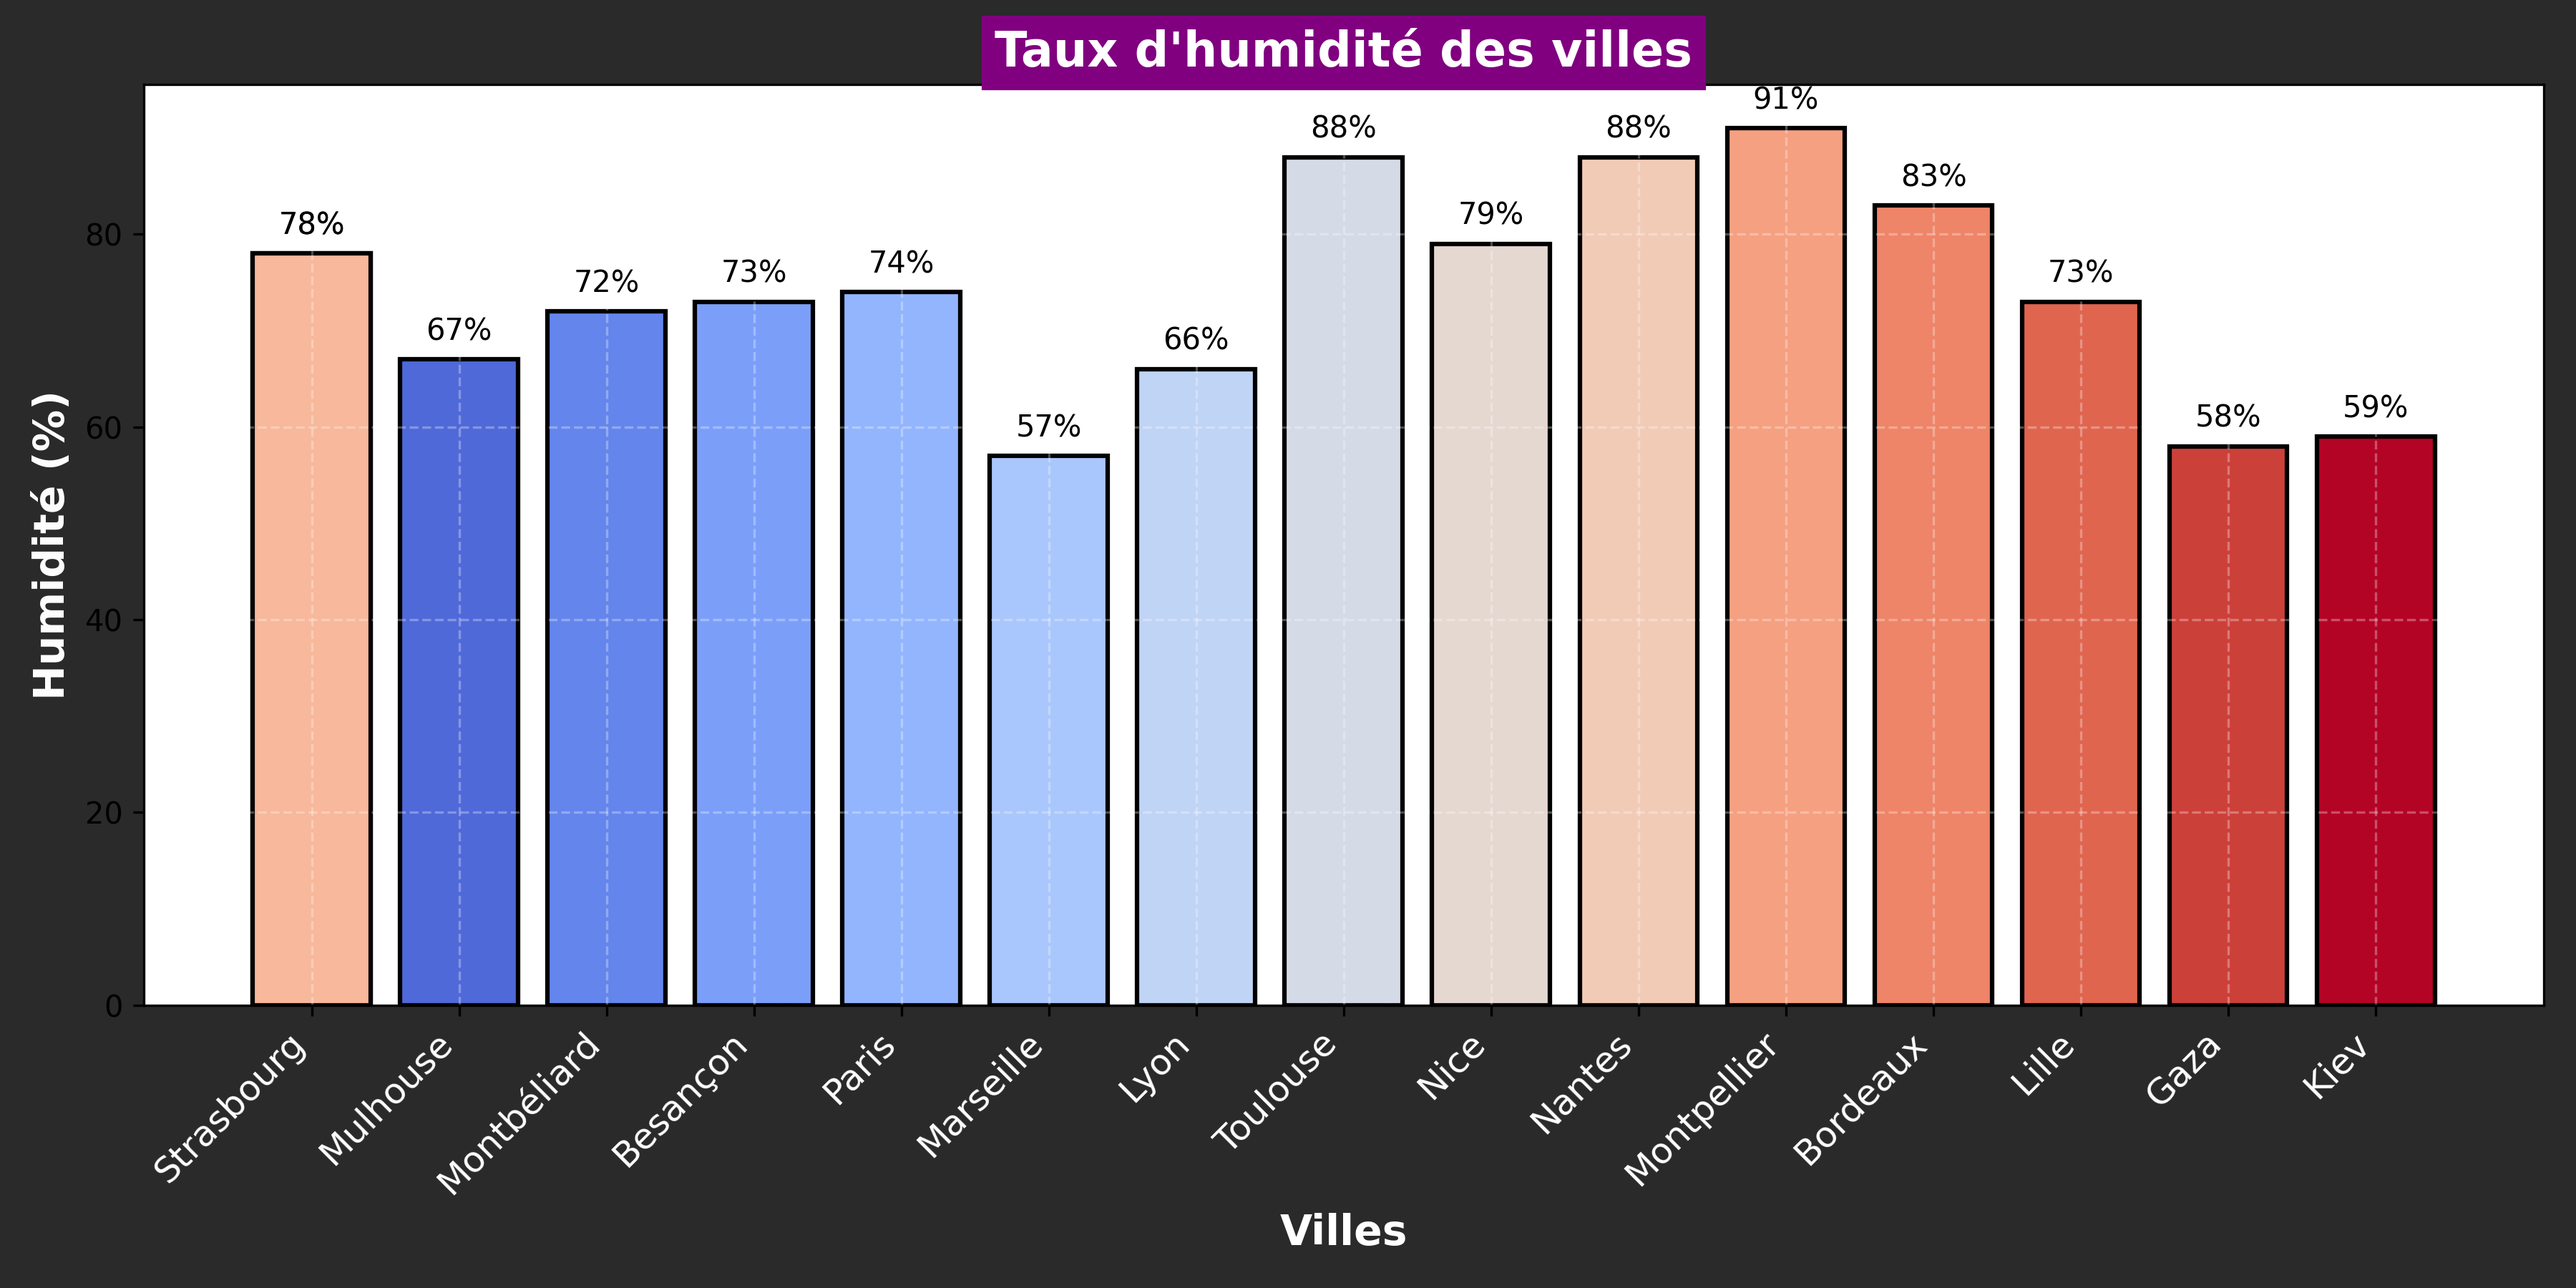
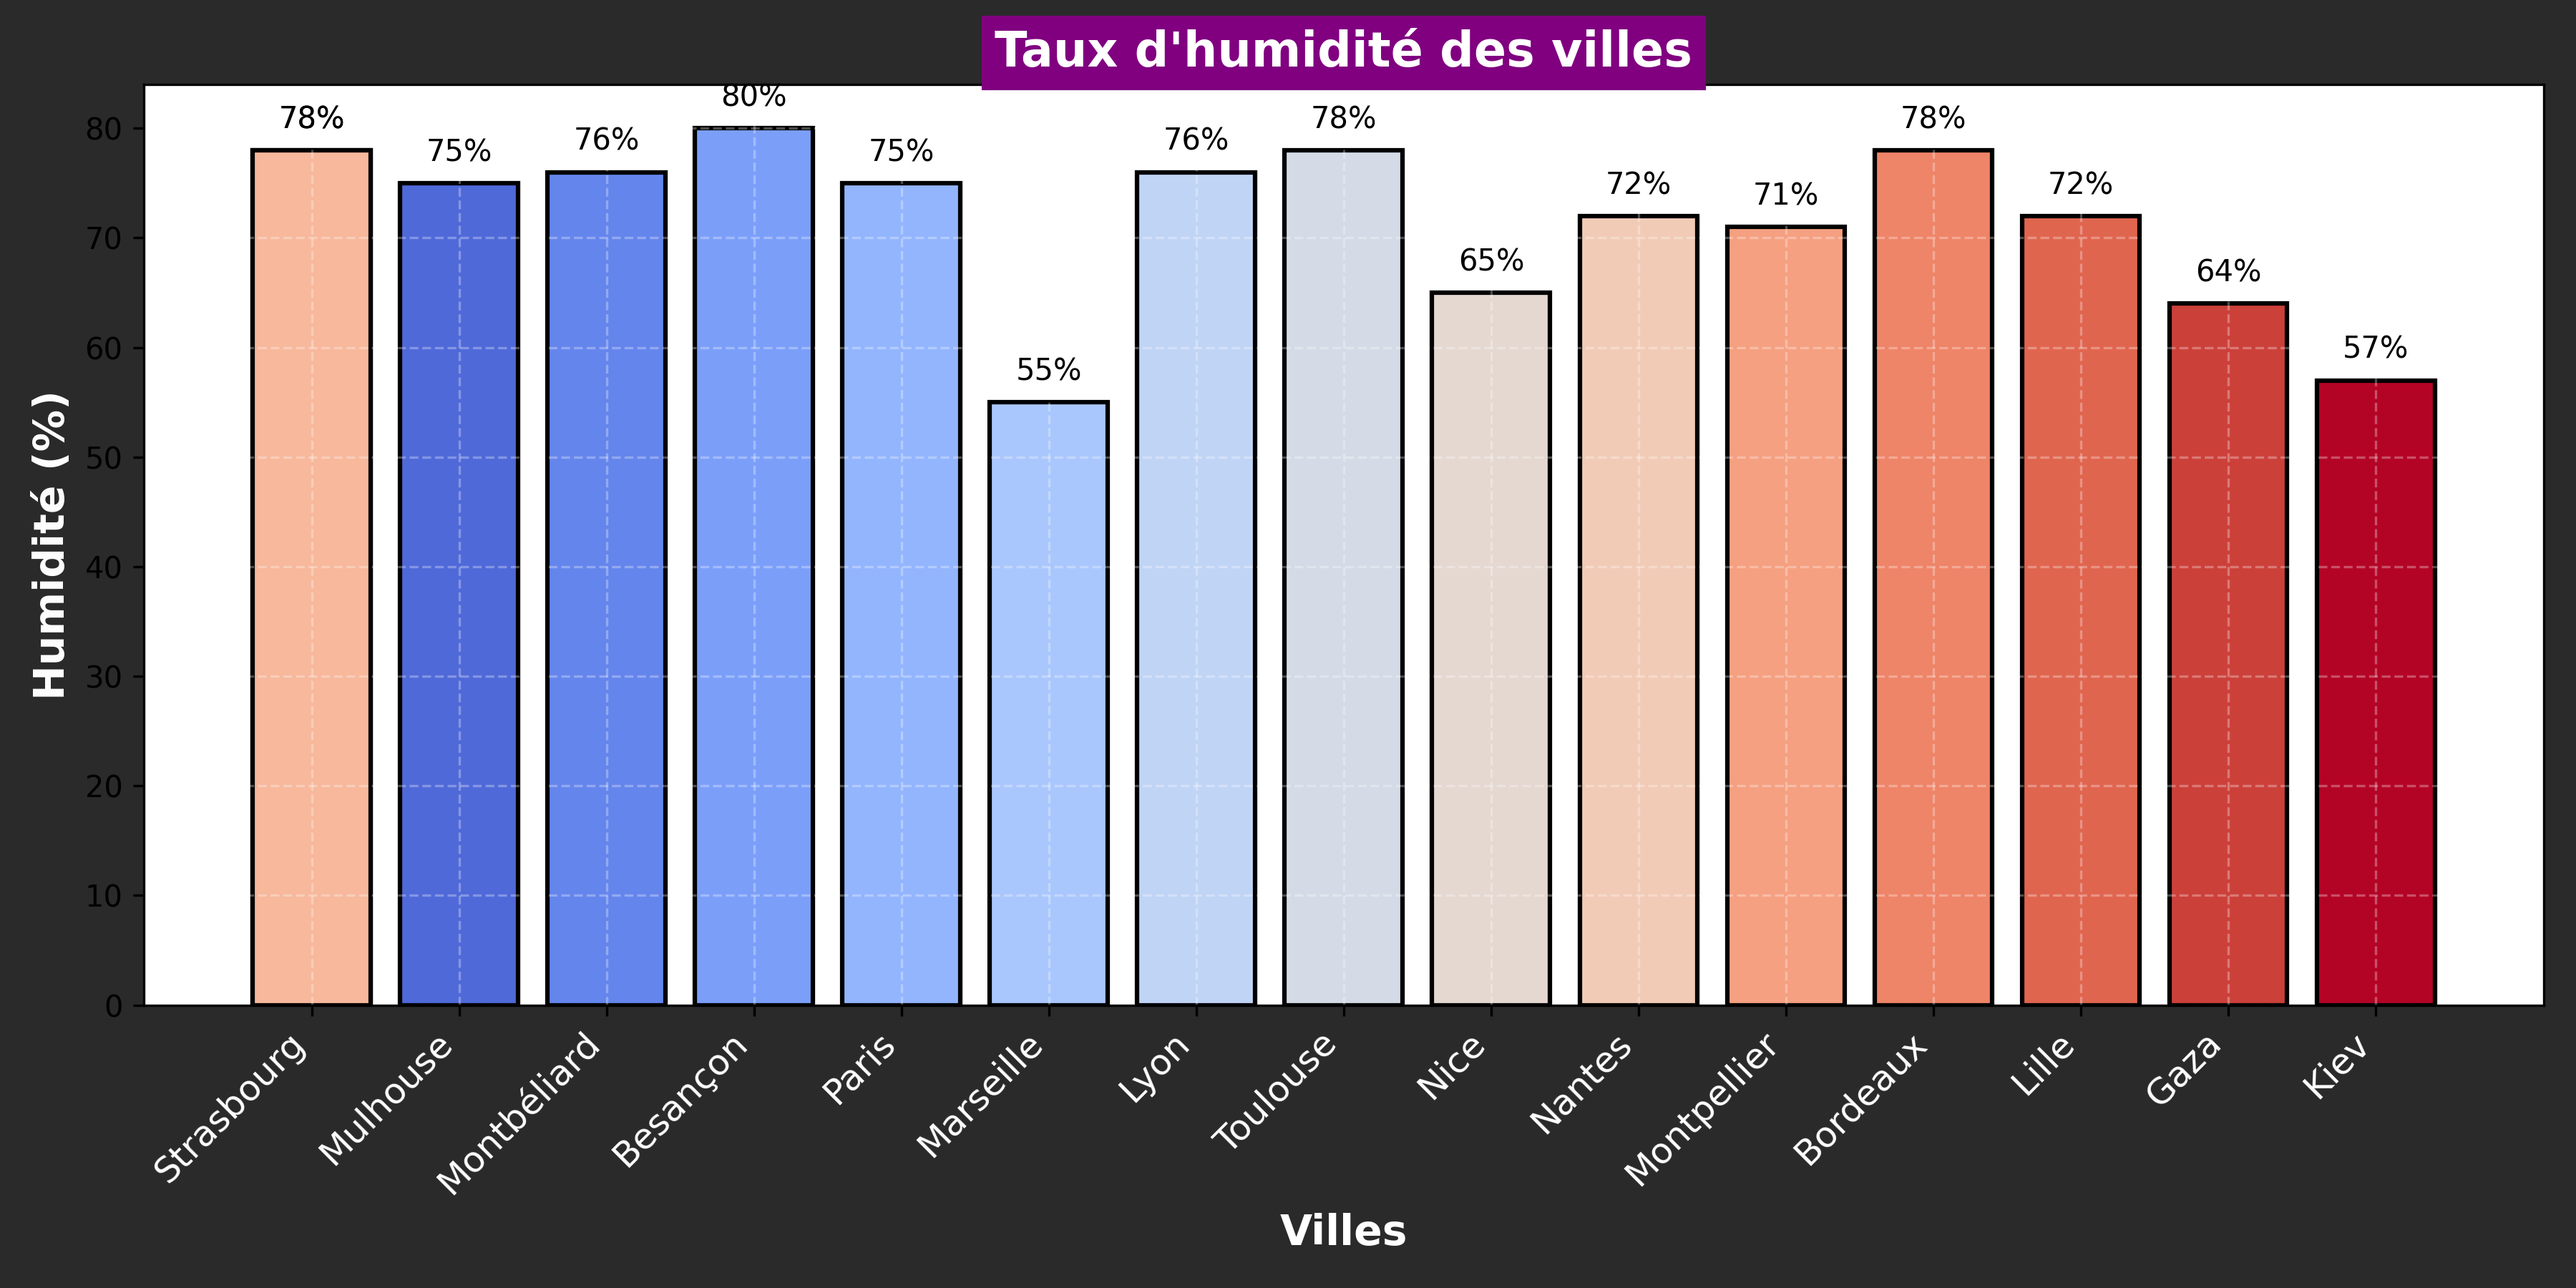
Mise à jour de la météo et ajout du graphique d'humidité

diff --git a/README.md b/README.md
@@ -24,103 +24,103 @@ Ce repo contient plusieurs workflows GitHub Actions :
 ## Météo actuelle :
 ## Météo des grandes villes + Gaza et Kiev 🌍
 
-🕒 Mise à jour : 02/07/2025 08:19:15
+🕒 Mise à jour : 03/07/2025 08:19:34
 
-### 🌍 Strasbourg ☀
-**Conditions :** ciel dégagé
-**Température :** 24.98°C
+### 🌍 Strasbourg 🌧
+**Conditions :** légère pluie
+**Température :** 22°C
 **Humidité :** 78%
-**Vent :** 1.54 m/s
+**Vent :** 5.14 m/s
 
 ### 🌍 Mulhouse ☀
 **Conditions :** ciel dégagé
-**Température :** 24.33°C
-**Humidité :** 67%
-**Vent :** 3.09 m/s
+**Température :** 22.4°C
+**Humidité :** 75%
+**Vent :** 3.6 m/s
 
 ### 🌍 Montbéliard 🌥
+**Conditions :** partiellement nuageux
+**Température :** 22.56°C
+**Humidité :** 76%
+**Vent :** 3.92 m/s
+
+### 🌍 Besançon 🌥
+**Conditions :** partiellement nuageux
+**Température :** 19.66°C
+**Humidité :** 80%
+**Vent :** 1.25 m/s
+
+### 🌍 Paris 🌥
 **Conditions :** peu nuageux
-**Température :** 26.1°C
-**Humidité :** 72%
-**Vent :** 1.47 m/s
+**Température :** 18.52°C
+**Humidité :** 75%
+**Vent :** 5.14 m/s
 
-### 🌍 Besançon ☀
-**Conditions :** ciel dégagé
-**Température :** 22.96°C
-**Humidité :** 73%
-**Vent :** 0.71 m/s
-
-### 🌍 Paris ☀
-**Conditions :** ciel dégagé
-**Température :** 22.69°C
-**Humidité :** 74%
-**Vent :** 3.13 m/s
-
-### 🌍 Marseille ☀
-**Conditions :** ciel dégagé
-**Température :** 25.53°C
-**Humidité :** 57%
-**Vent :** 1.17 m/s
+### 🌍 Marseille 🌥
+**Conditions :** peu nuageux
+**Température :** 25.29°C
+**Humidité :** 55%
+**Vent :** 2.17 m/s
 
 ### 🌍 Lyon ☀
 **Conditions :** ciel dégagé
-**Température :** 22.75°C
-**Humidité :** 66%
-**Vent :** 0.61 m/s
+**Température :** 20.56°C
+**Humidité :** 76%
+**Vent :** 1.3 m/s
 
 ### 🌍 Toulouse 🌥
 **Conditions :** couvert
 **Température :** 21.99°C
-**Humidité :** 88%
-**Vent :** 2.57 m/s
-
-### 🌍 Nice 🌥
-**Conditions :** partiellement nuageux
-**Température :** 14.43°C
-**Humidité :** 79%
-**Vent :** 0.98 m/s
-
-### 🌍 Nantes 🌥
-**Conditions :** couvert
-**Température :** 18.96°C
-**Humidité :** 88%
+**Humidité :** 78%
 **Vent :** 3.09 m/s
 
-### 🌍 Strasbourg ☀
-**Conditions :** ciel dégagé
-**Température :** 24.98°C
-**Humidité :** 78%
-**Vent :** 1.54 m/s
+### 🌍 Nice 🌥
+**Conditions :** peu nuageux
+**Température :** 21.39°C
+**Humidité :** 65%
+**Vent :** 1.03 m/s
 
-### 🌍 Montpellier 🌥
-**Conditions :** partiellement nuageux
-**Température :** 24.72°C
-**Humidité :** 91%
-**Vent :** 2.06 m/s
+### 🌍 Nantes ☀
+**Conditions :** ciel dégagé
+**Température :** 15.96°C
+**Humidité :** 72%
+**Vent :** 4.12 m/s
+
+### 🌍 Strasbourg 🌧
+**Conditions :** légère pluie
+**Température :** 22°C
+**Humidité :** 78%
+**Vent :** 5.14 m/s
+
+### 🌍 Montpellier ☀
+**Conditions :** ciel dégagé
+**Température :** 26.39°C
+**Humidité :** 71%
+**Vent :** 1.54 m/s
 
 ### 🌍 Bordeaux 🌥
 **Conditions :** couvert
-**Température :** 22.15°C
-**Humidité :** 83%
+**Température :** 21.15°C
+**Humidité :** 78%
 **Vent :** 3.09 m/s
 
 ### 🌍 Lille ☀
 **Conditions :** ciel dégagé
-**Température :** 22.58°C
-**Humidité :** 73%
-**Vent :** 1.03 m/s
+**Température :** 16.28°C
+**Humidité :** 72%
+**Vent :** 2.57 m/s
 
 ### 🌍 Gaza ☀
 **Conditions :** ciel dégagé
-**Température :** 29.01°C
-**Humidité :** 58%
-**Vent :** 2.46 m/s
+**Température :** 28.29°C
+**Humidité :** 64%
+**Vent :** 2.44 m/s
 
 ### 🌍 Kiev 🌥
-**Conditions :** nuageux
-**Température :** 21.36°C
-**Humidité :** 59%
-**Vent :** 5.25 m/s
+**Conditions :** peu nuageux
+**Température :** 20.34°C
+**Humidité :** 57%
+**Vent :** 3.63 m/s
 
 <p align='center'><img src='https://raw.githubusercontent.com/khoa083/khoa/main/Khoa_ne/img/Rainbow.gif' width='100%' style='border-radius: 5px; border: 3px solid #39FF14; box-shadow: 0 0 10px #39FF14, 0 0 20px #39FF14;' /></p>
 
